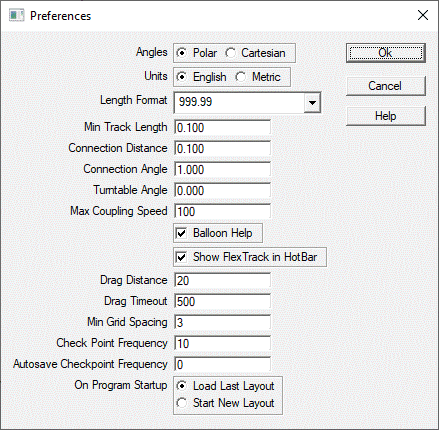
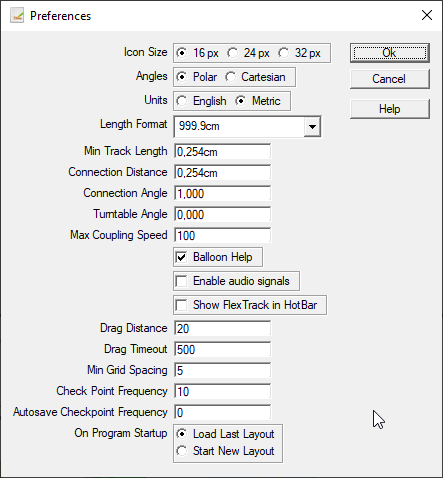
Add option to control audio signals (beeps) Windows implementation

diff --git a/app/bin/doption.c b/app/bin/doption.c
@@ -50,6 +50,7 @@ static void UpdateChkPtInterval(long);
 static wIndex_t distanceFormatInx;
 
 EXPORT long enableBalloonHelp = 1;
+EXPORT long enableAudio = 1;
 
 EXPORT long showFlexTrack = 1;
 
@@ -307,6 +308,7 @@ static char * unitsLabels[] = { N_("English"), N_("Metric"), NULL };
 static char * angleSystemLabels[] = { N_("Polar"), N_("Cartesian"), NULL };
 static char * enableBalloonHelpLabels[] = { N_("Balloon Help"), NULL };
 static char * enableFlexTrackLabels[] = { N_("Show FlexTrack in HotBar"), NULL };
+static char * enableAudioLabels[] = { N_("Enable audio signals"), NULL };
 static char * startOptions[] = { N_("Load Last Layout"), N_("Start New Layout"), NULL };
 
 static paramData_t prefPLs[] = {
@@ -322,13 +324,14 @@ static paramData_t prefPLs[] = {
 	{ PD_FLOAT, &turntableAngle, "turntable-angle", PDO_NOPSHUPD, &r0_180, N_("Turntable Angle") },
 	{ PD_LONG, &maxCouplingSpeed, "coupling-speed-max", PDO_NOPSHUPD, &i10_100, N_("Max Coupling Speed"), 0 },
 	{ PD_TOGGLE, &enableBalloonHelp, "balloonhelp", PDO_NOPSHUPD, enableBalloonHelpLabels, "", BC_HORZ },
+	{ PD_TOGGLE, &enableAudio, "setaudio", PDO_NOPSHUPD, enableAudioLabels, "", BC_HORZ },
 	{ PD_TOGGLE, &showFlexTrack, "showflextrack", PDO_NOPSHUPD, enableFlexTrackLabels, "", BC_HORZ},
 	{ PD_LONG, &dragPixels, "dragpixels", PDO_NOPSHUPD|PDO_DRAW, &i1_1000, N_("Drag Distance") },
 	{ PD_LONG, &dragTimeout, "dragtimeout", PDO_NOPSHUPD|PDO_DRAW, &i1_1000, N_("Drag Timeout") },
 	{ PD_LONG, &minGridSpacing, "mingridspacing", PDO_NOPSHUPD|PDO_DRAW, &i1_100, N_("Min Grid Spacing"), 0, 0 },
-#define I_CHKPT		(14)
+#define I_CHKPT		(15)
 	{ PD_LONG, &checkPtInterval, "checkpoint", PDO_NOPSHUPD|PDO_FILE, &i0_10000, N_("Check Point Frequency") },
-#define I_AUTOSAVE		(15)
+#define I_AUTOSAVE		(16)
 	{ PD_LONG, &autosaveChkPoints, "autosave", PDO_NOPSHUPD|PDO_FILE, &i0_99, N_("Autosave Checkpoint Frequency") },
 	{ PD_RADIO, &onStartup, "onstartup", PDO_NOPSHUPD, startOptions, N_("On Program Startup"), 0, NULL }
 };
@@ -498,6 +501,9 @@ static void PrefOk( void * junk )
 	if(changes & CHANGE_ICONSIZE) {
 		NoticeMessage( MSG_ICON_SIZE_RESTART, _("Ok"), NULL ) ;
 	}
+
+	wPrefSetInteger("misc", "audio", enableAudio);
+	wSetAudio(enableAudio);
 
 	wHide( prefW );
 	DoChangeNotification(changes);

diff --git a/app/wlib/mswlib/mswmisc.c b/app/wlib/mswlib/mswmisc.c
@@ -201,6 +201,8 @@ static char * filterImageFiles[] = { N_("All image files"),
 
 static HICON hWindowIcon;
 
+static bool audioOn;
+
 /*
  *****************************************************************************
  *
@@ -1791,34 +1793,6 @@ void wControlHilite(
  *****************************************************************************
  */
 
-
-void wMessage(
-    wWin_p w,
-    const char * msg,
-    int beep)
-{
-    HDC hDc;
-    int oldRop;
-    wWinPix_t h;
-    RECT rect;
-    LABELFONTDECL
-
-    if (beep) {
-        MessageBeep(0);
-    }
-
-    GetClientRect(w->hWnd, &rect);
-    hDc = GetDC(w->hWnd);
-    oldRop = SetROP2(hDc, R2_WHITE);
-    h = w->h+2;
-    Rectangle(hDc, 0, h, w->w, h);
-    SetROP2(hDc, oldRop);
-    LABELFONTSELECT
-    TextOut(hDc, 0, h, msg, (int)(strlen(msg)));
-    LABELFONTRESET
-    ReleaseDC(w->hWnd, hDc);
-}
-
 /**
  * Open a document using an external application
  *
@@ -2025,10 +1999,27 @@ void mswSetTrigger(
     }
 }
 
+/**
+ * Change audio setting.
+ * 
+ * \param setting   true: beep is on
+ */
+void
+wSetAudio(bool setting)
+{
+    audioOn = (setting > 0);
+}
+
+/**
+ * Sound speaker if audio is enabled.
+ * 
+ */
 
 void wBeep(void)
 {
-    MessageBeep(MB_OK);
+    if (audioOn) {
+        MessageBeep(MB_OK);
+    }
 }
 
 /**
@@ -3007,7 +2998,9 @@ MainWndProc(HWND hWnd, UINT message, WPARAM wParam, LPARAM lParam)
         }
 
         /* Not a Draw control */
-        MessageBeep(MB_ICONHAND);
+        if (audioOn) {
+            MessageBeep(MB_ICONHAND);
+        }
         return (LRESULT)0;
         break;
 

diff --git a/app/bin/misc.c b/app/bin/misc.c
@@ -1010,6 +1010,13 @@ static int OfferCheckpoint( void )
 	return (ret>=0);
 }
 
+void 
+InitAudio()
+{
+	wPrefGetInteger("misc", "audio", &enableAudio, true);
+	wSetAudio(enableAudio);
+}
+
 EXPORT wWin_p wMain(int argc, char * argv[])
 {
 	int c;
@@ -1133,6 +1140,8 @@ EXPORT wWin_p wMain(int argc, char * argv[])
 	wSetGeometry(mainW, displayWidth/2, displayWidth, displayHeight/2,
 	             displayHeight, -1, -1, -1);
 	InitAppDefaults();
+
+	InitAudio();
 
 	ToolbarLoadConfig();
 	/*	newToolbarMax = (1 << BG_COUNT) - 1;

diff --git a/app/wlib/include/wlib.h b/app/wlib/include/wlib.h
@@ -168,9 +168,9 @@ void wInitAppName(char *appName);
 const char * wGetAppLibDir(			void );
 const char * wGetAppWorkDir(			void );
 const char * wGetUserHomeDir( void );
-wBool_t wCheckExecutable(		void );
 
-void wBeep(			void );
+void wSetAudio(bool setting);
+void wBeep( void );
 wBool_t wNotice(		const char *, const char *, const char * );
 int wNotice3(			const char *, const char *, const char *, const char * );
 void wHelp(			const char * );

diff --git a/app/bin/misc.h b/app/bin/misc.h
@@ -234,6 +234,7 @@ void EnumerateEnd(void);
 
 /* doption.c */
 extern long enableBalloonHelp;
+extern long enableAudio;
 long GetDistanceFormat( void );
 
 /* cblock.c */
